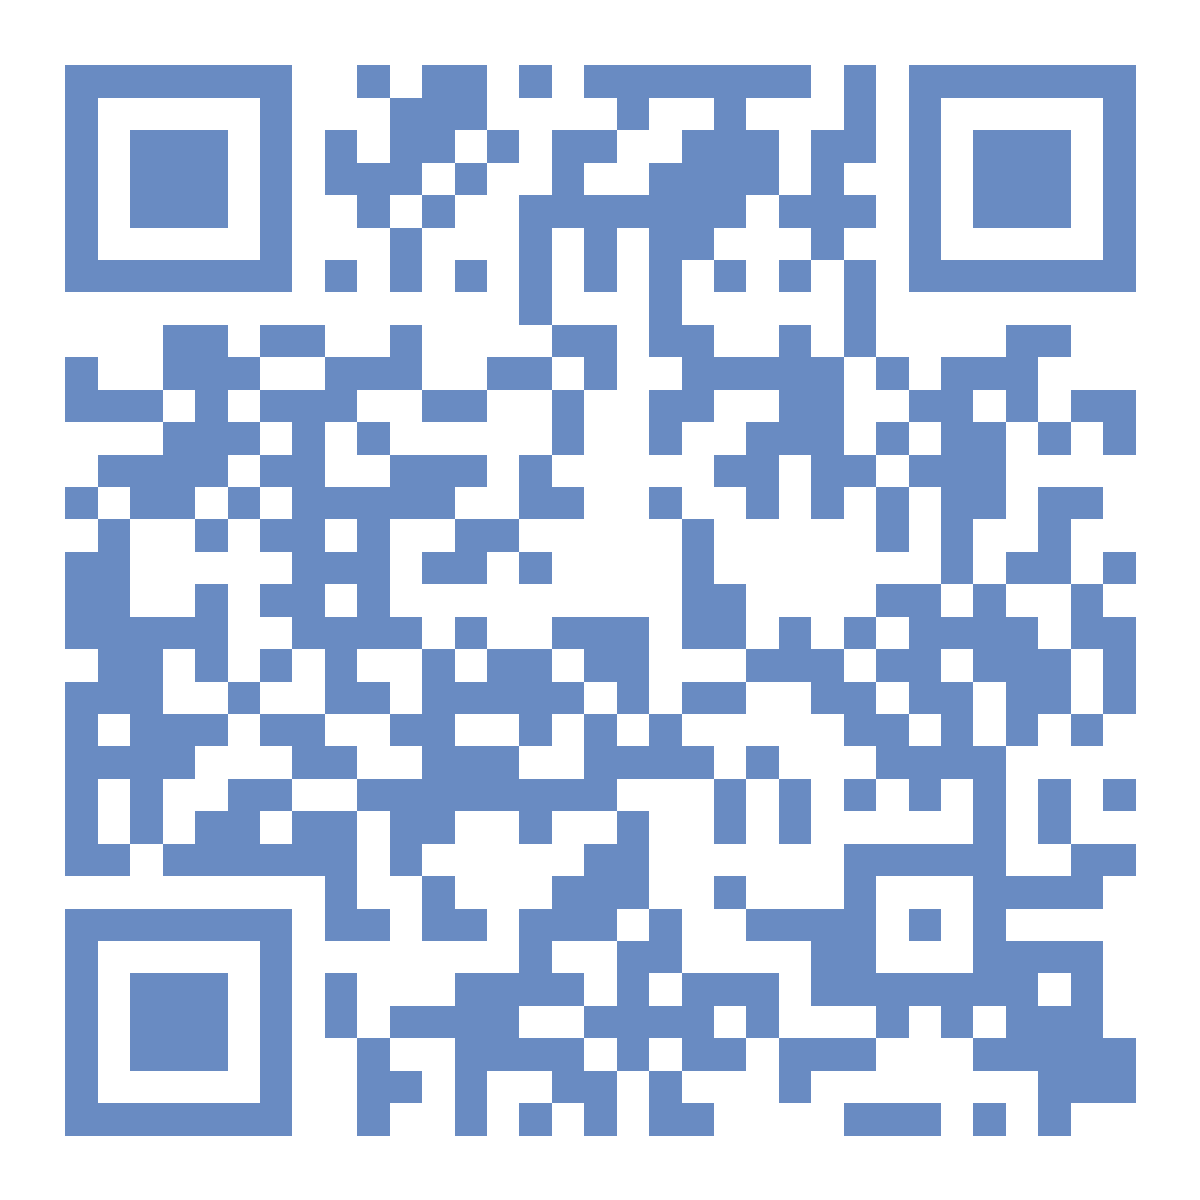
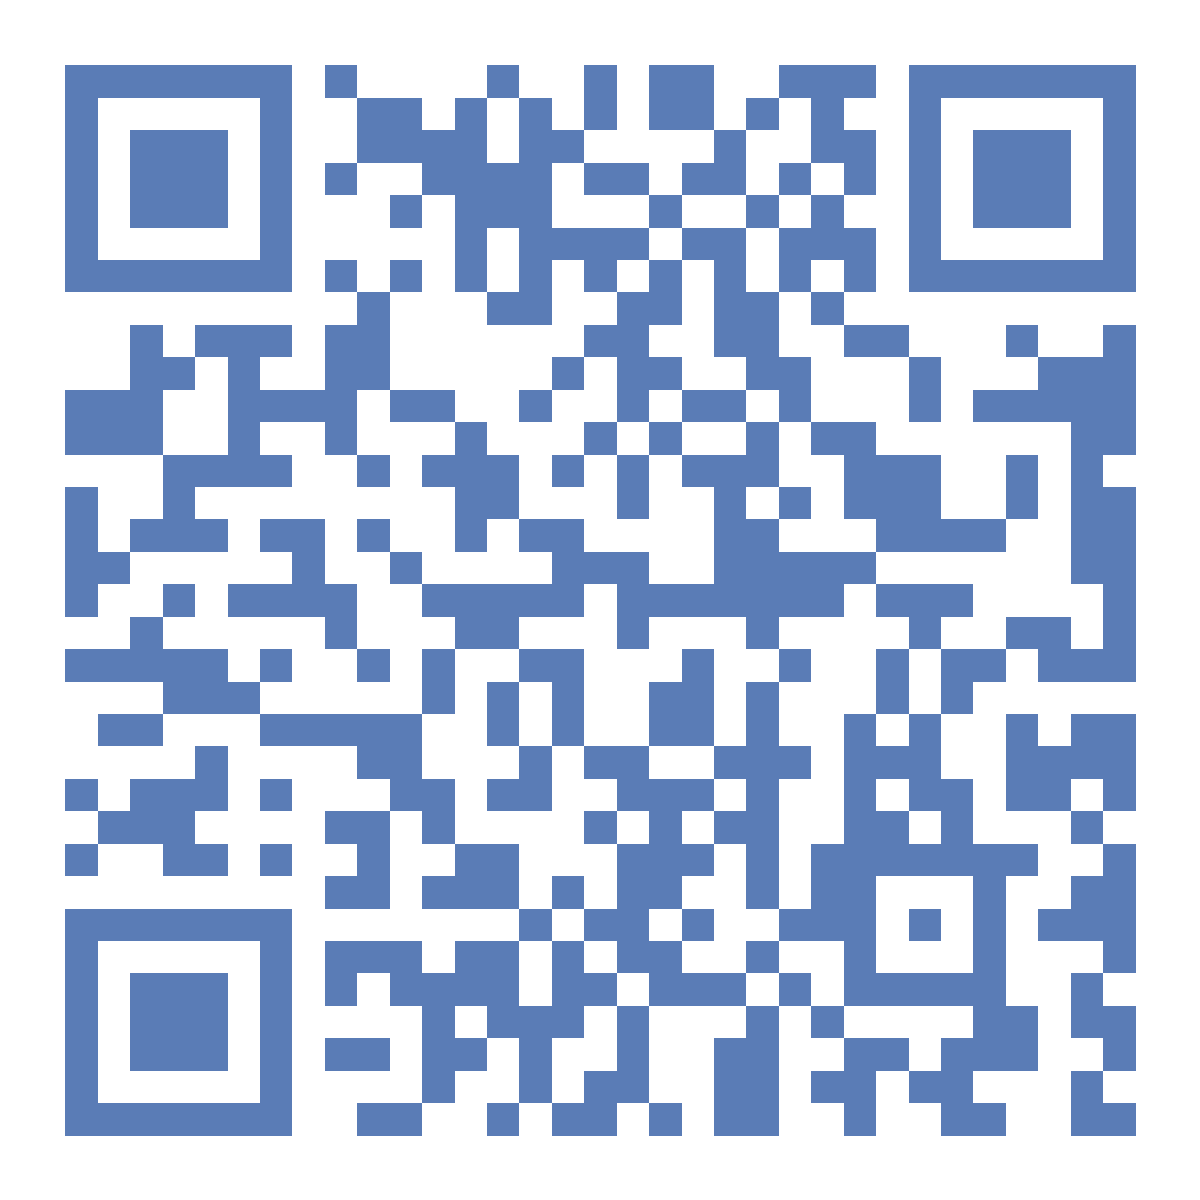
fix: update QR code link to exact Vercel address https://nisan-app-taupe.vercel.app

diff --git a/scripts/generate_qr.js b/scripts/generate_qr.js
@@ -2,17 +2,15 @@ const QRCode = require('qrcode');
 const fs = require('fs');
 const path = require('path');
 
-const targetUrl = 'https://nisan-app.vercel.app';
+const targetUrl = 'https://nisan-app-taupe.vercel.app';
 const outputDir = path.join(__dirname, '..', 'public');
 
 if (!fs.existsSync(outputDir)) {
   fs.mkdirSync(outputDir, { recursive: true });
 }
 
-// Color palette extracted from invitation:
-// Deep Blue Ink: #5778b3
-// Accent Blue: #7091c7
-// Light Blue: #93b1d9
+// Soft Blue Ink extracted from user's invitation:
+// Deep Blue Ink: #5a7cb6
 
 async function generateQRCodes() {
   const options = {
@@ -22,20 +20,20 @@ async function generateQRCodes() {
     margin: 2,
     width: 1200,
     color: {
-      dark: '#5a7cb6',  // Matching soft blue ink from invitation
+      dark: '#5a7cb6',  // Soft blue ink
       light: '#ffffff'  // Clean white
     }
   };
 
   const outputPath1 = path.join(outputDir, 'qr-code-blue.png');
   await QRCode.toFile(outputPath1, targetUrl, options);
-  console.log('Generated QR code at:', outputPath1);
+  console.log('Generated QR code for:', targetUrl, 'at:', outputPath1);
 
   // Soft transparent version
   const optionsTransparent = {
     ...options,
     color: {
-      dark: '#698bc2',
+      dark: '#5a7cb6',
       light: '#00000000' // transparent background
     }
   };
